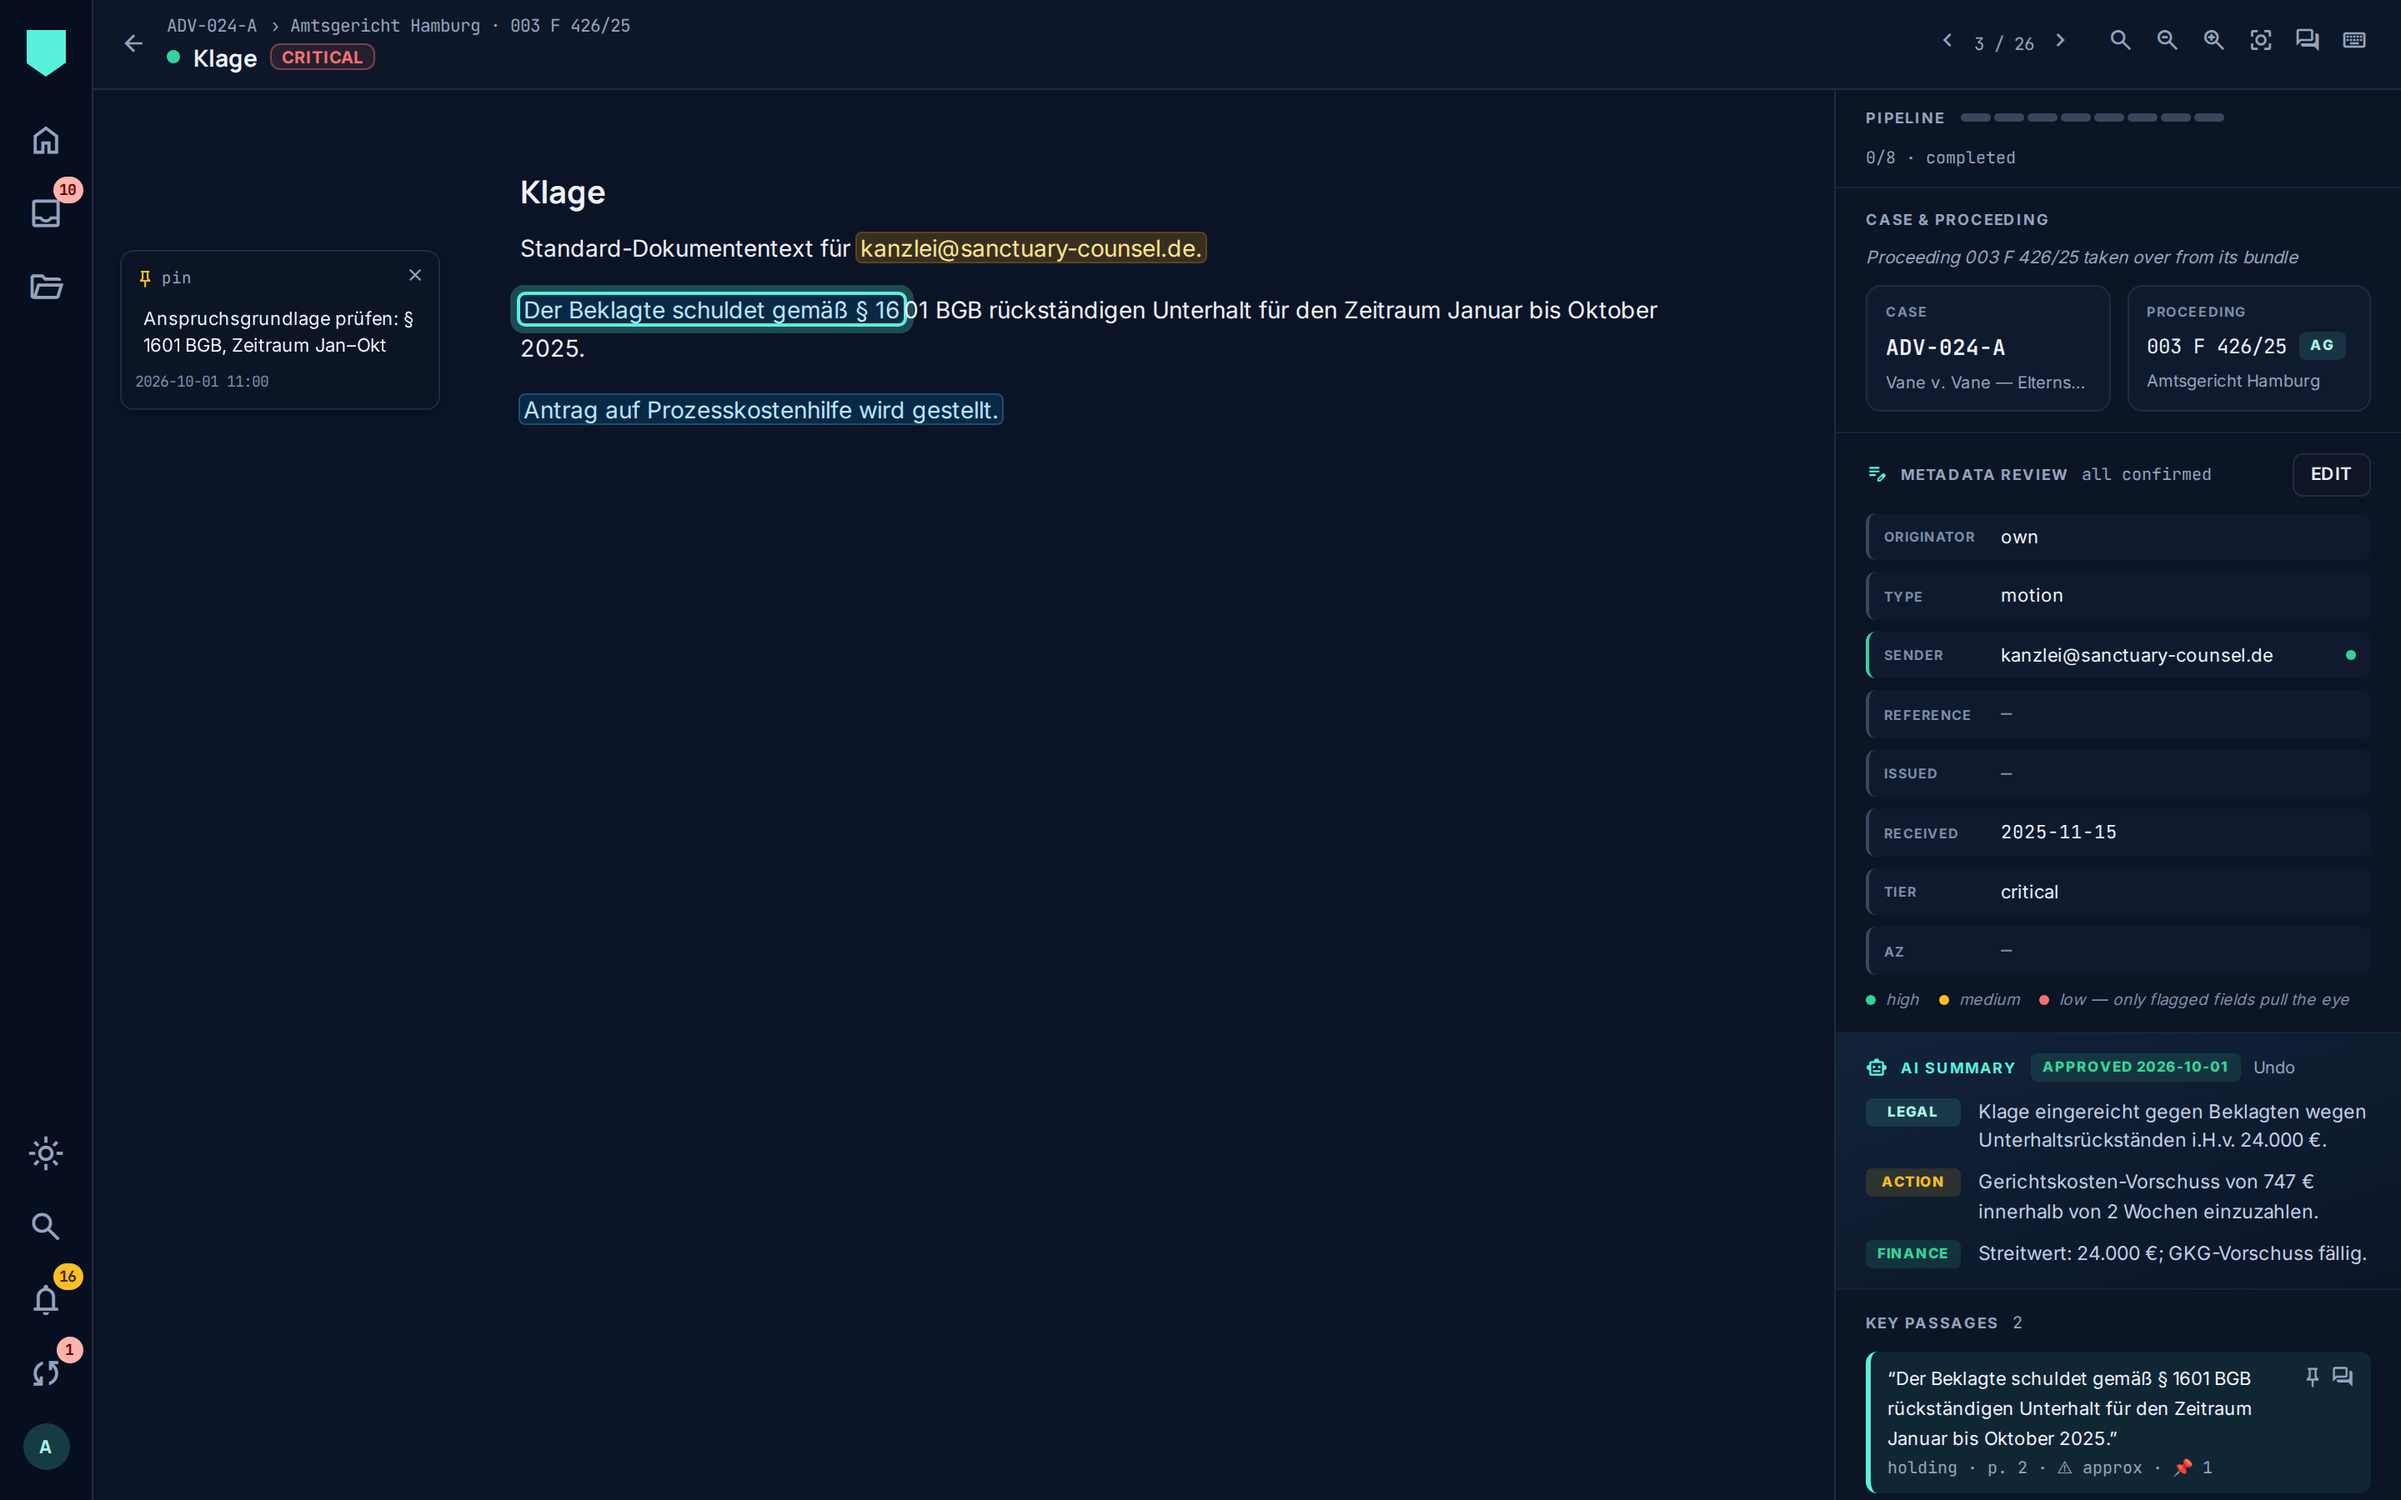
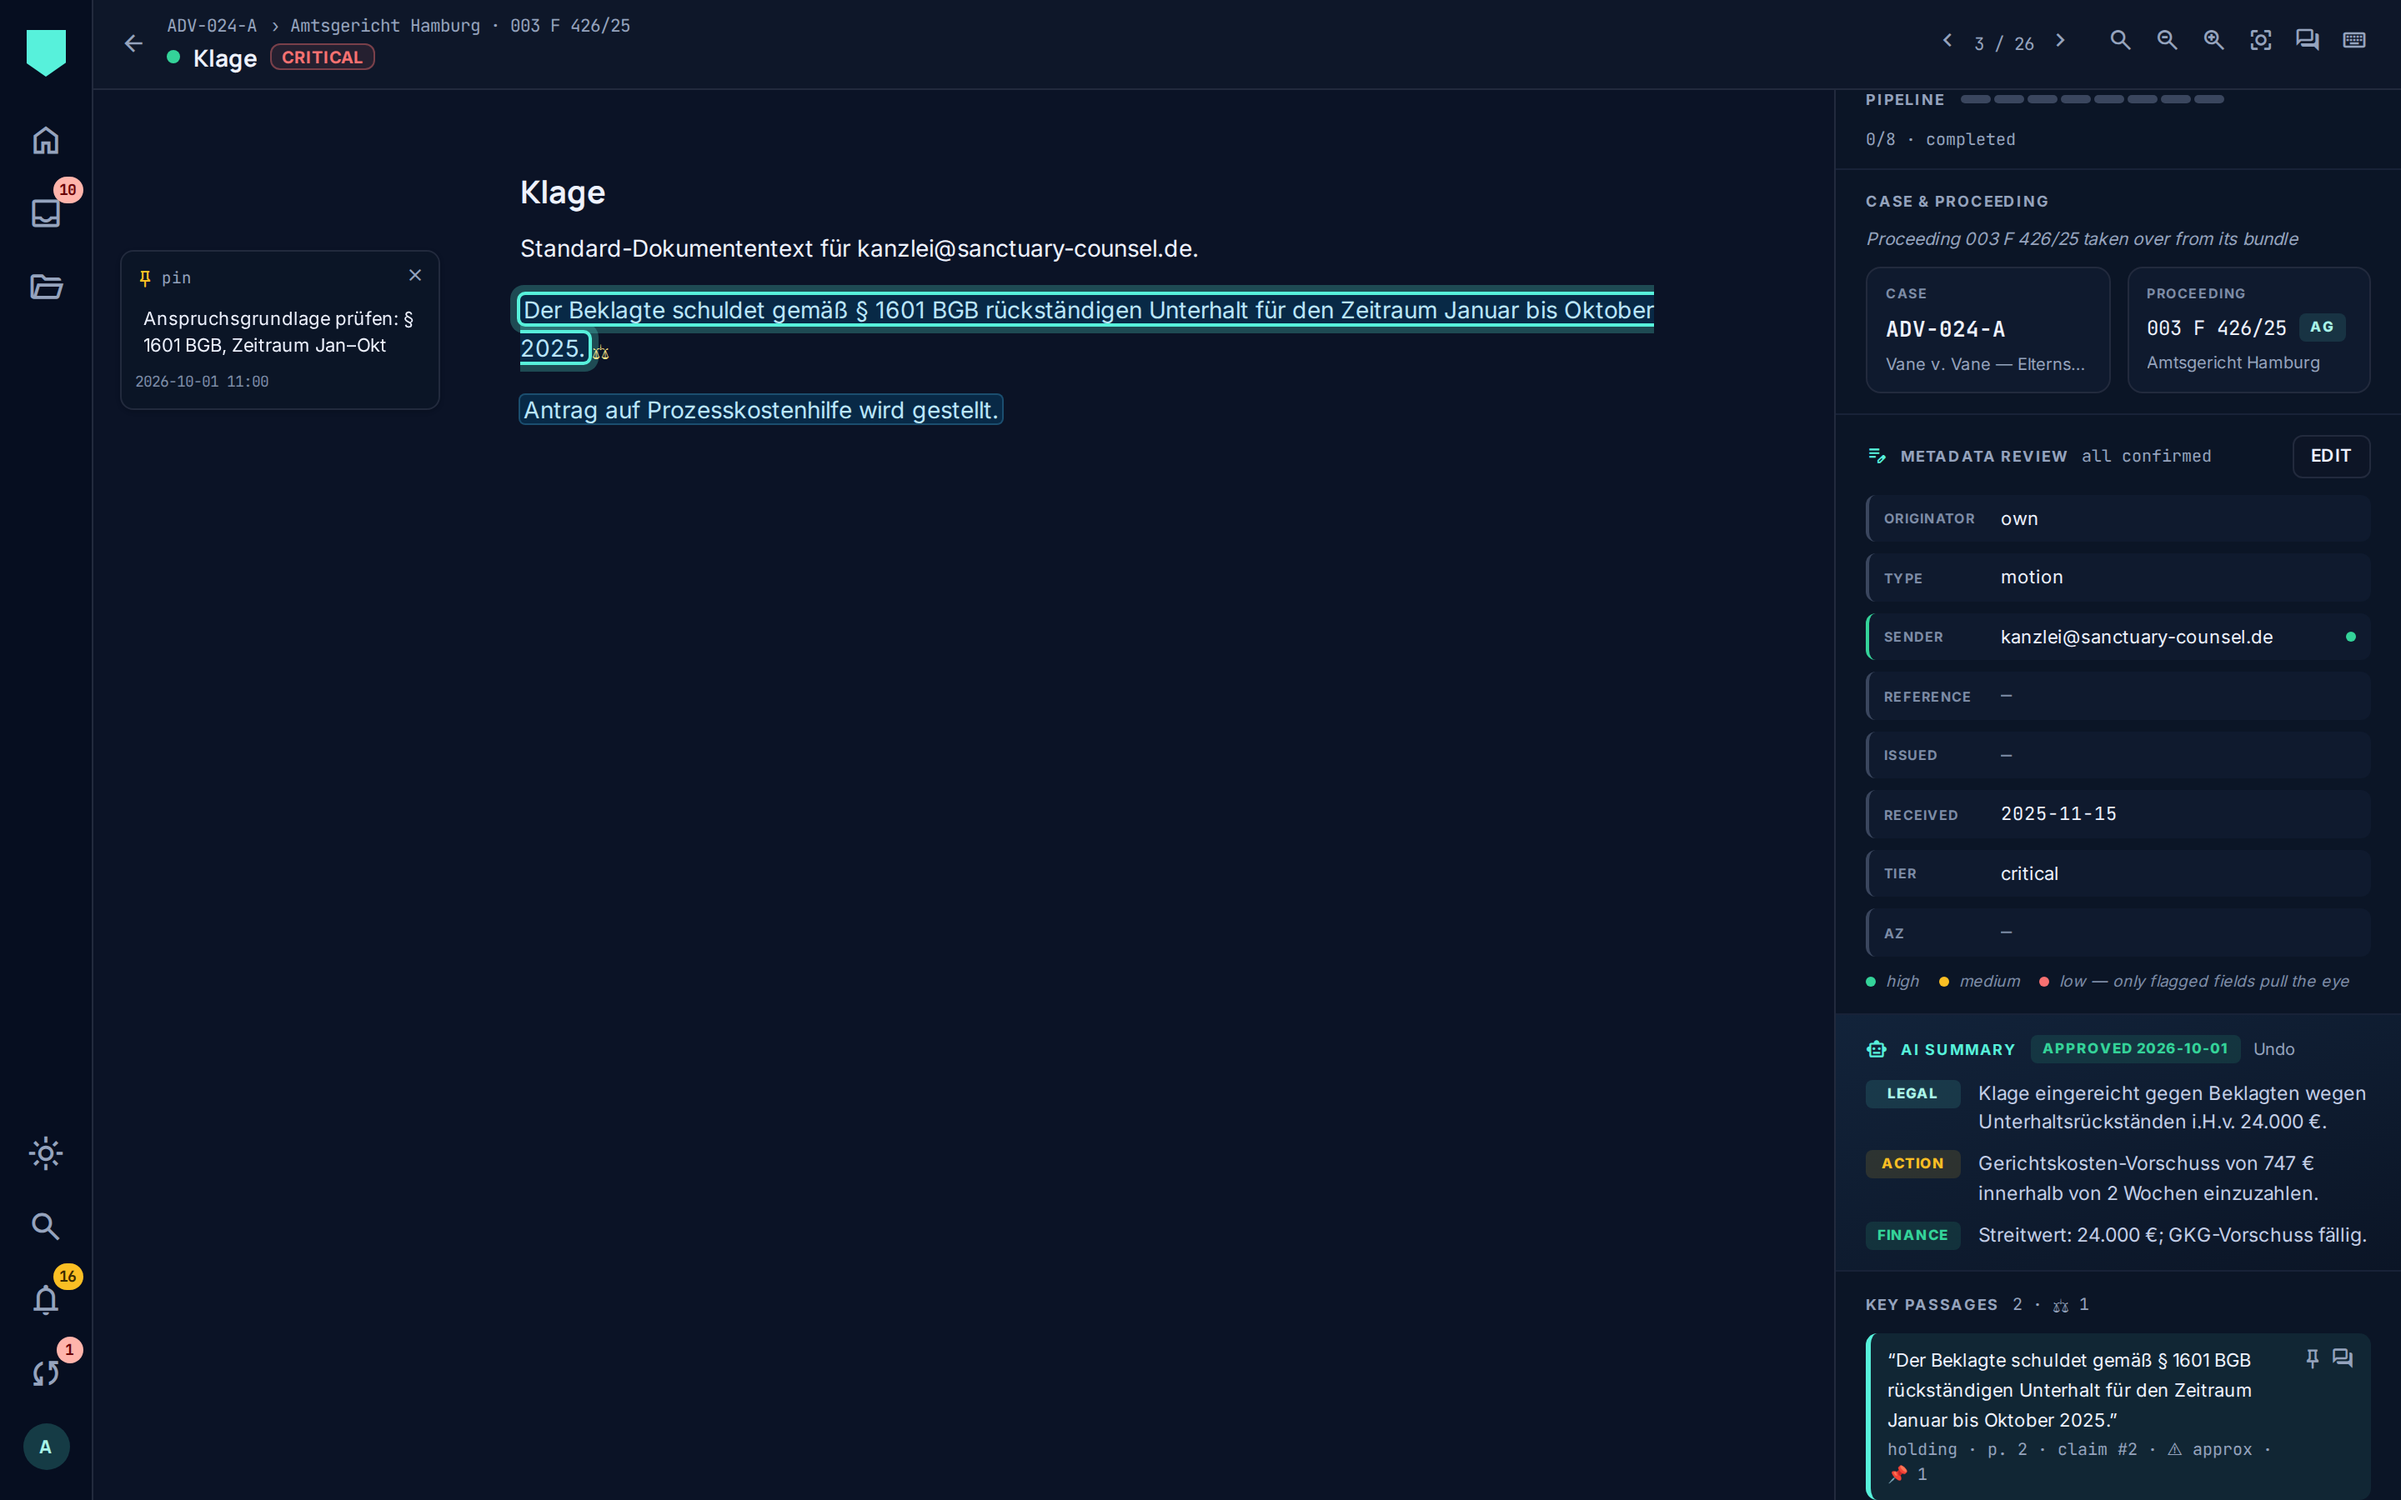
fix: key-passage highlights no longer end mid-word (#471)
* fix: key-passage highlights no longer end mid-word

find_text_offsets mapped normalized positions back with a walker that
counted every whitespace run twice, so a normalized or fuzzy match
started too early, and the end was start + len(text). Build an explicit
normalized-to-original index map instead, take the end from it, and snap
fuzzy spans to word boundaries.

The demo's claim excerpt for the Klage was not a substring of its key
passage (trailing period), so it was drawn as a second, crossing
highlight and the passage never linked to its claim. Make it verbatim.

Closes #466

Claude-Session: https://claude.ai/code/session_01SdPTrMH1joyDRTTRj6n9Ym

* fix: bound and extend word snapping in find_text_offsets

Snap pass-2 (normalized) spans too, cap the outward widening at 32
characters so a long hash or id is not swallowed, and keep the index map in
an array instead of a list of ints.

Claude-Session: https://claude.ai/code/session_01SdPTrMH1joyDRTTRj6n9Ym

* test: pin the snap cap and say what it guarantees

Claude-Session: https://claude.ai/code/session_01SdPTrMH1joyDRTTRj6n9Ym

---------

diff --git a/app/services/text_offsets.py b/app/services/text_offsets.py
@@ -10,32 +10,72 @@ Three passes:
 2. normalized substring — whitespace collapsed, curly quotes folded (must be unique)
 3. fuzzy windowed difflib ratio ≥ 0.85 (only for text ≥ 20 chars)
 
-Returns ``(start, end)`` byte offsets in the original ``content`` string, or
+Returns ``(start, end)`` character offsets in the original ``content`` string, or
 ``None`` when the passage cannot be confidently located.
 """
 
 from __future__ import annotations
 
 import difflib
-import re
+from array import array
+
+# A span is widened to word boundaries by at most this many characters; a longer
+# alphanumeric run (hash, base64, id) is not a word, so the span stays as matched.
+_SNAP_MAX = 32
+
+_QUOTES = str.maketrans({"‘": "'", "’": "'", "“": '"', "”": '"'})
 
 
-def _normalize(s: str) -> str:
-    s = s.replace("‘", "'").replace("’", "'")
-    s = s.replace("“", '"').replace("”", '"')
-    return re.sub(r"\s+", " ", s).strip()
+def _project(s: str) -> tuple[str, array]:
+    """Normalize ``s`` (quotes folded, whitespace runs collapsed, ends
+    stripped) and return it with, for every normalized character, its offset
+    in ``s``."""
+    chars: list[str] = []
+    origin = array("l")
+    pending_space = False
+    for i, ch in enumerate(s.translate(_QUOTES)):
+        if ch.isspace():
+            pending_space = bool(chars)
+            continue
+        if pending_space:
+            chars.append(" ")
+            origin.append(i - 1)
+            pending_space = False
+        chars.append(ch)
+        origin.append(i)
+    return "".join(chars), origin
 
 
-def _norm_to_orig(content: str, norm_idx: int) -> int:
-    """Map a position in the normalized projection of ``content`` back to
-    its offset in the original ``content`` string."""
-    norm_walked = 0
-    for m in re.finditer(r"\S+|\s+", content):
-        token = _normalize(m.group())
-        if norm_walked + len(token) > norm_idx:
-            return m.start()
-        norm_walked += len(token) + 1  # +1 for collapsed space
-    return len(content)
+def _snap_to_words(content: str, start: int, end: int) -> tuple[int, int]:
+    """Widen a span so it does not begin or end inside a word, then drop
+    whitespace at its edges. Only where the enclosing alphanumeric run is at
+    most ``_SNAP_MAX`` characters longer than the span: a longer run (hash,
+    base64, id) is not a word and the span stays as matched."""
+    lo = start
+    while (
+        lo > 0
+        and content[lo - 1].isalnum()
+        and content[lo].isalnum()
+        and start - lo < _SNAP_MAX
+    ):
+        lo -= 1
+    if lo > 0 and content[lo - 1].isalnum() and content[lo].isalnum():
+        lo = start
+    hi = end
+    while (
+        hi < len(content)
+        and content[hi - 1].isalnum()
+        and content[hi].isalnum()
+        and hi - end < _SNAP_MAX
+    ):
+        hi += 1
+    if hi < len(content) and content[hi - 1].isalnum() and content[hi].isalnum():
+        hi = end
+    while lo < hi and content[lo].isspace():
+        lo += 1
+    while hi > lo and content[hi - 1].isspace():
+        hi -= 1
+    return lo, hi
 
 
 def find_text_offsets(content: str, text: str) -> tuple[int, int] | None:
@@ -49,13 +89,14 @@ def find_text_offsets(content: str, text: str) -> tuple[int, int] | None:
         return idx, idx + len(text)
 
     # Pass 2 — normalized, unique
-    norm_text = _normalize(text)
-    norm_content = _normalize(content)
+    norm_text, _ = _project(text)
+    norm_content, origin = _project(content)
     if norm_text:
         norm_idx = norm_content.find(norm_text)
         if norm_idx != -1 and norm_content.find(norm_text, norm_idx + 1) == -1:
-            orig_idx = _norm_to_orig(content, norm_idx)
-            return orig_idx, min(orig_idx + len(text), len(content))
+            return _snap_to_words(
+                content, origin[norm_idx], origin[norm_idx + len(norm_text) - 1] + 1
+            )
 
     # Pass 3 — fuzzy windowed ratio (paraphrased / punctuation-shifted quotes)
     target_len = len(norm_text)
@@ -73,7 +114,8 @@ def find_text_offsets(content: str, text: str) -> tuple[int, int] | None:
                 best_ratio = ratio
                 best_pos = i
         if best_ratio >= 0.85 and best_pos >= 0:
-            orig_idx = _norm_to_orig(content, best_pos)
-            return orig_idx, min(orig_idx + len(text), len(content))
+            return _snap_to_words(
+                content, origin[best_pos], origin[best_pos + target_len - 1] + 1
+            )
 
     return None

diff --git a/tests/unit/test_text_offsets.py b/tests/unit/test_text_offsets.py
@@ -54,3 +54,56 @@ def test_fuzzy_match_for_punctuation_shifted_quote():
 @pytest.mark.unit
 def test_unrelated_text_returns_none():
     assert find_text_offsets("alpha beta gamma delta epsilon", "xyz123 qrs789") is None
+
+
+@pytest.mark.unit
+def test_normalized_span_covers_exactly_the_match_after_whitespace_runs():
+    # Whitespace before the match used to shift the mapped start earlier.
+    content = "Kopf\n\n  Zeile   eins\n\nDer  Beklagte\tschuldet   Unterhalt. Ende"
+    text = "Der Beklagte schuldet Unterhalt."
+    start, end = find_text_offsets(content, text)
+    assert content[start:end] == "Der  Beklagte\tschuldet   Unterhalt."
+
+
+@pytest.mark.unit
+def test_fuzzy_match_never_ends_inside_a_word():
+    content = (
+        "kanzlei@sanctuary-counsel.de.\n\n"
+        "Der Beklagte schuldet gemäß § 1601 BGB rückständigen Unterhalt für den "
+        "Zeitraum Januar bis Oktober 2025."
+    )
+    # Not verbatim (trailing period), so it falls through to the fuzzy pass.
+    text = "Der Beklagte schuldet gemäß § 1601 BGB rückständigen Unterhalt."
+    start, end = find_text_offsets(content, text)
+    assert content[start:].startswith("Der Beklagte")
+    assert not content[end - 1].isalnum() or not content[end].isalnum()
+    assert "1601" in content[start:end]
+    assert content[start:end] == text.rstrip(".")
+
+
+@pytest.mark.unit
+def test_normalized_match_does_not_end_inside_a_longer_word():
+    # The double space defeats the exact pass; the normalized pass must not stop at "Unterhalt|s".
+    content = "Er schuldet rückständigen  Unterhaltsanspruch seit Januar."
+    start, end = find_text_offsets(content, "rückständigen Unterhalt")
+    assert content[start:end] == "rückständigen  Unterhaltsanspruch"
+
+
+@pytest.mark.unit
+def test_snapping_does_not_swallow_a_long_alphanumeric_run():
+    # A fuzzy window that begins inside a long hash/id must not widen over all of it.
+    junk = "a" * 200
+    content = f"{junk}\nDer Beklagte schuldet gemäß § 1601 BGB rückständigen Unterhalt für Januar."
+    start, end = find_text_offsets(
+        content, "Der Beklagte schuldet gemäß § 1601 BGB rückständigen Unterhalt."
+    )
+    assert end - start < 80
+    assert "Der Beklagte" in content[start:end]
+
+
+@pytest.mark.unit
+def test_a_run_longer_than_the_snap_limit_is_left_as_matched():
+    # The cap is deliberate: past it the span may still end inside the run.
+    content = "Die Nummer  " + "X" * 60
+    start, end = find_text_offsets(content, "Die Nummer " + "X" * 16)
+    assert content[start:end] == "Die Nummer  " + "X" * 16

diff --git a/scripts/seed_dummy_data.py b/scripts/seed_dummy_data.py
@@ -2626,7 +2626,7 @@ _add_claim_evidence(
             claim_id=cl2.id,
             document_id=p8_klage.id,
             role=ClaimEvidenceRole.SUPPORTS,
-            excerpt="Der Beklagte schuldet gemäß § 1601 BGB rückständigen Unterhalt.",
+            excerpt="Der Beklagte schuldet gemäß § 1601 BGB rückständigen Unterhalt",
             confidence=RelationshipConfidence.USER_CONFIRMED,
         ),
         ClaimEvidence(
